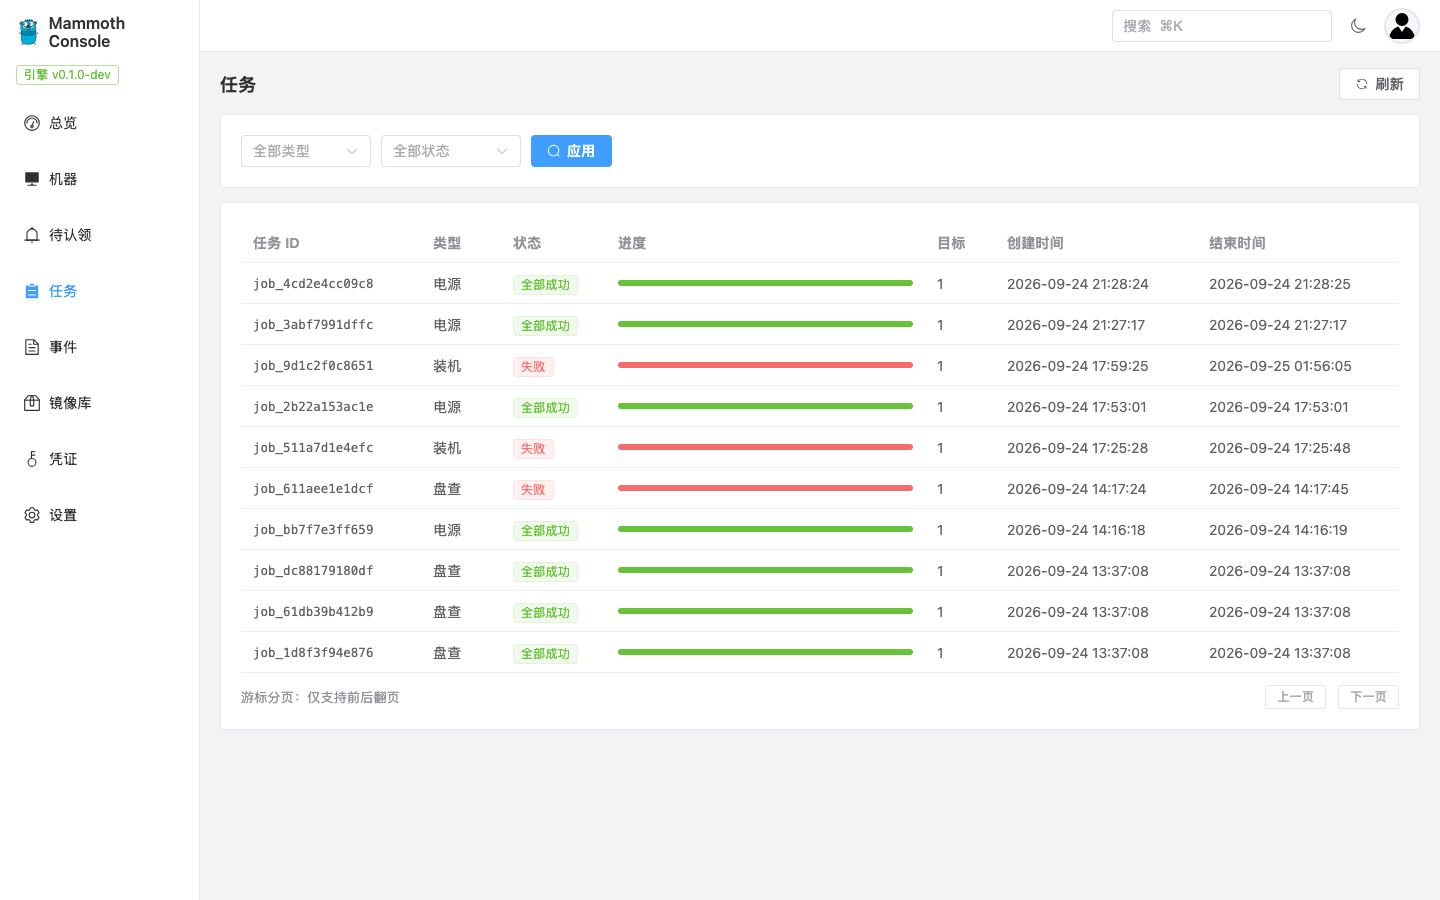
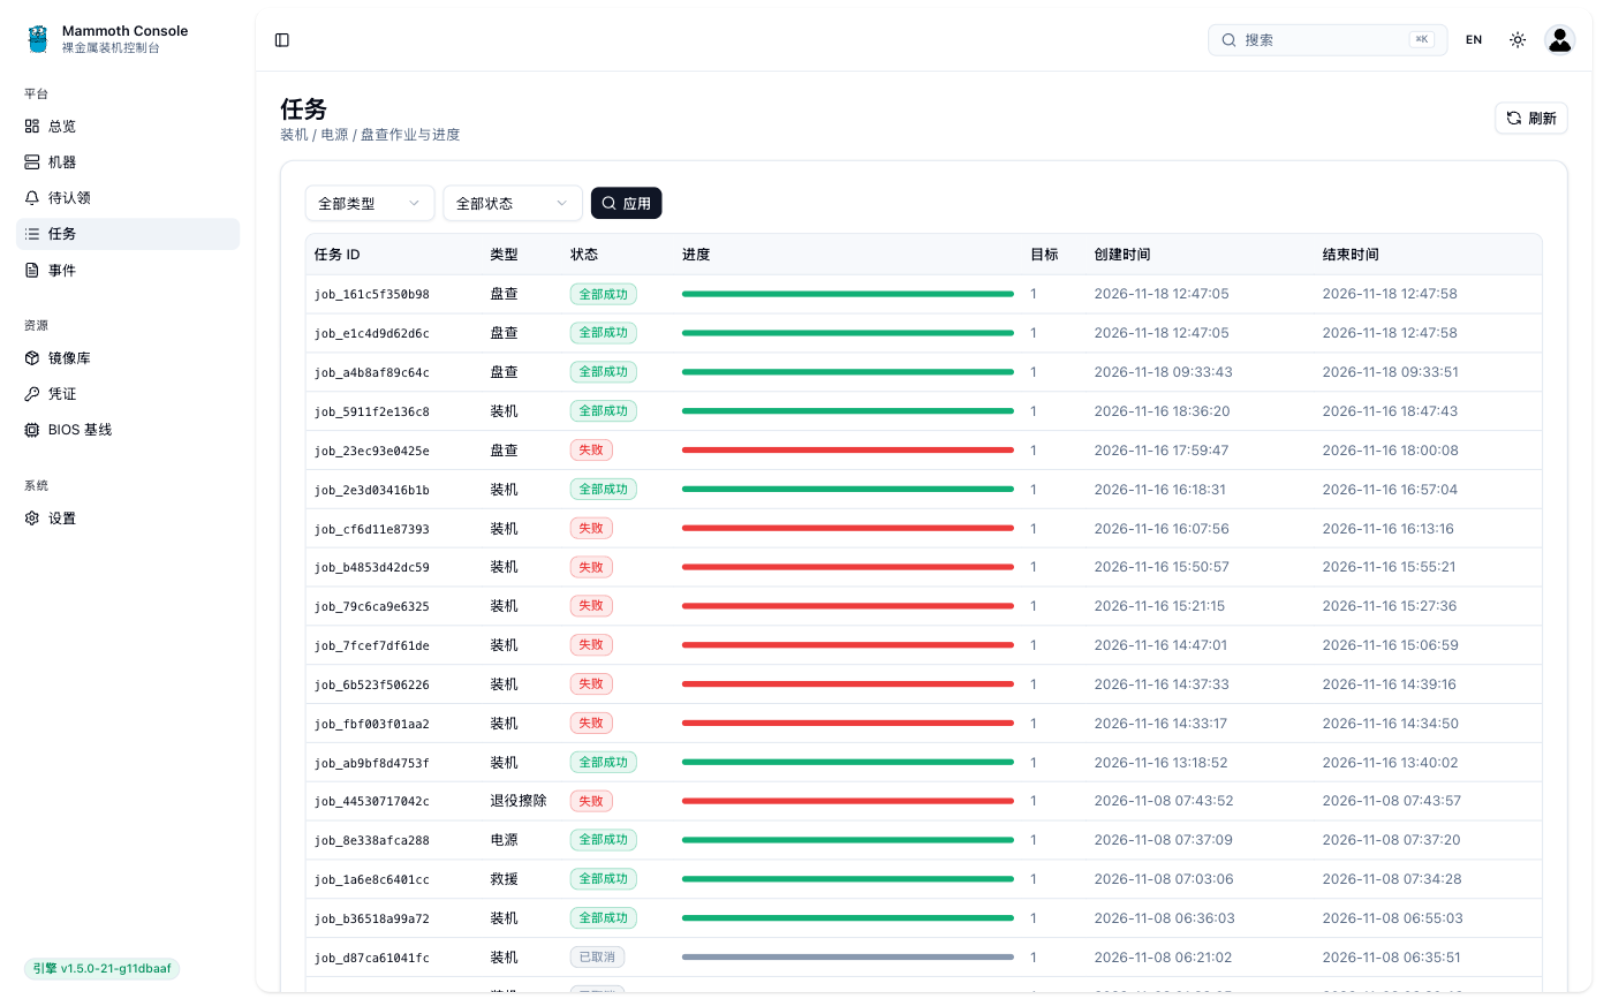
docs: README 截图与技术栈更新——shadcn 重写后的新 UI
- 7 张截图全部重截(1600×1000,亮/暗双主题,shadcn 新 UI + 250 真机数据)
- 技术栈:Element Plus → shadcn-vue (reka-ui) + Tailwind CSS v4
- Dark mode 描述改为 Tailwind class 驱动 + shadcn 设计 tokens
引擎 README 引用的 machines.png 走 raw/main 链接,随本提交自动更新

diff --git a/README.md b/README.md
@@ -61,7 +61,7 @@ else.
 
 ![Task detail](docs/screenshots/task-detail.png)
 
-**Dark mode** — Element Plus dark variables with a persisted preference.
+**Dark mode** — Tailwind class-driven theming over shadcn design tokens, with a persisted preference.
 
 ![Dark mode](docs/screenshots/dashboard-dark.png)
 
@@ -117,7 +117,7 @@ suite runs against your own disposable PostgreSQL container.
 
 ## Tech stack
 
-Vue 3 + TypeScript + Element Plus + TanStack Query · openapi-fetch with
+Vue 3 + TypeScript + shadcn-vue (reka-ui) + Tailwind CSS v4 + TanStack Query · openapi-fetch with
 contract-generated types · native SSE wrappers · Vite + vue-tsc · Playwright ·
 Caddy for the production container.
 
